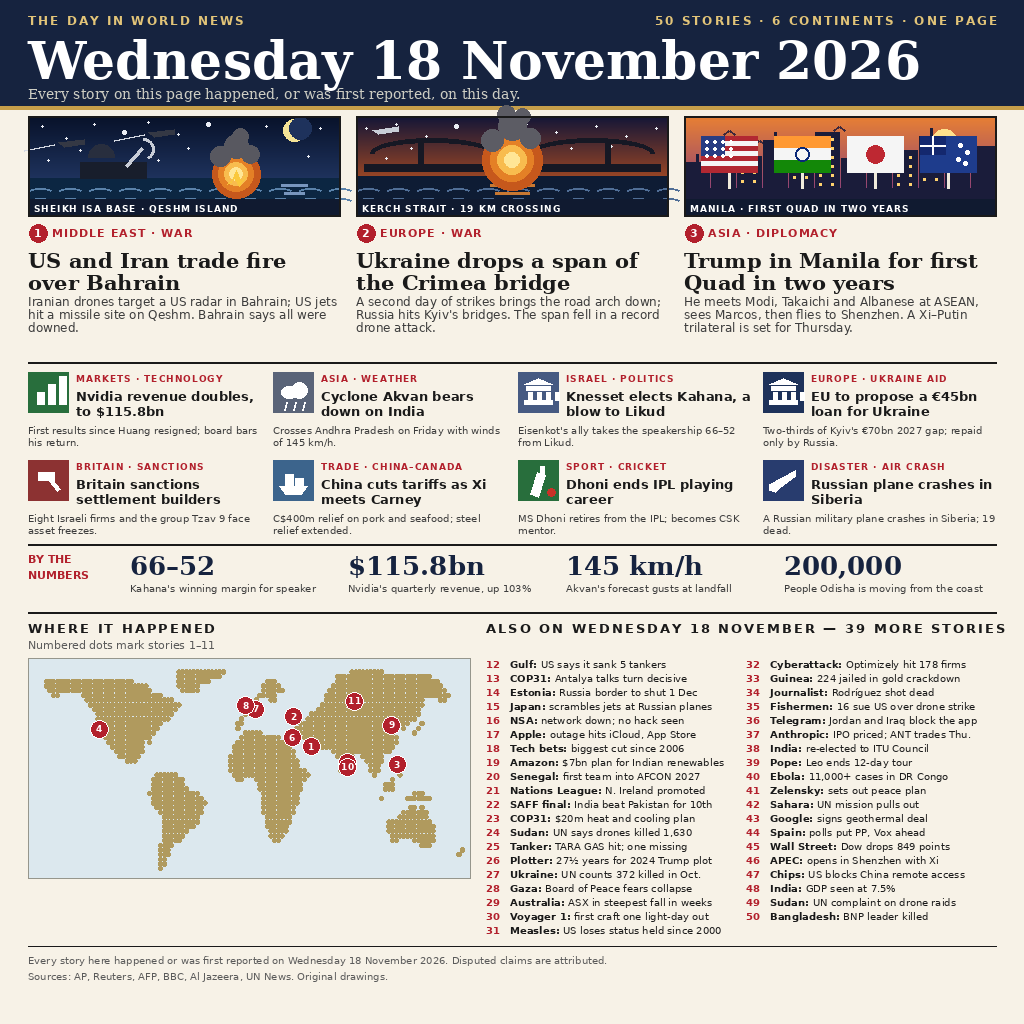
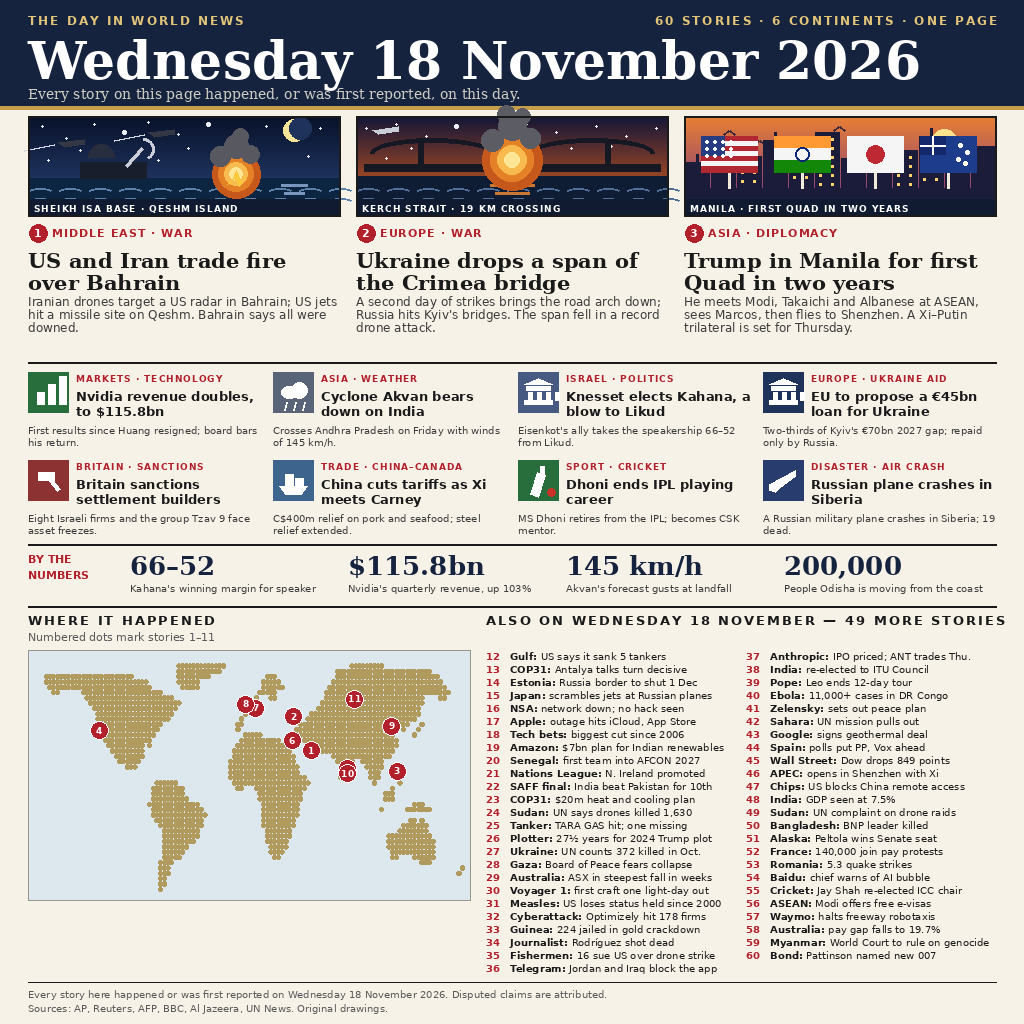
v5: 60 stories, densest page, no truncation

diff --git a/main.py b/main.py
@@ -1,11 +1,11 @@
 """Entry for news-image-20261118: place the bundled picture at the output.
 
-The bundled picture (entry.png, 1024 by 1024, 180,073 bytes) is a dense
-front page of Wednesday 18 November 2026: 50 stories — a dark navy
+The bundled picture (entry.png, 1024 by 1024, 197,053 bytes) is a dense
+front page of Wednesday 18 November 2026: 60 stories — a dark navy
 masthead, three rich night/dusk illustrated panels, eleven featured stories
 with visuals, a "BY THE NUMBERS" strip, a dotted world map with numbered
-pins, and a list of 39 more stories from the day. It is drawn
-programmatically (see ../news-image-20261117/draw_v4.py), so every
+pins, and a list of 49 more stories from the day. It is drawn
+programmatically (see ../news-image-20261117/draw_v5.py), so every
 headline is typeset and legible. This program only copies those exact
 bytes to the output path. It uses no network and no randomness, so every
 run produces the same file.

diff --git a/BUILD_NOTES.md b/BUILD_NOTES.md
@@ -4,6 +4,18 @@
 - **Bounty:** news-image-20261118 ($250, 50 places). Deadline 20 Nov 2026 00:00 UTC.
 - **Program:** `main.py` (Python 3.13, pure stdlib) — copies the bundled `entry.png` to `/output/entry.png`. No network, no drawing. Two runs write identical bytes.
 
+## Image (v5 — 60 stories, user asked "Coba v4 60 berita")
+- v3 ranked **106/3,727 (win rate 98.2873%)**; the prize cutoff (rank 50) is 98.6% — v4 (50 stories) is built and pushed but not yet submitted (daily quota; scheduled submit 19 Nov 07:05 WIB). The user asked to try 60 stories, so v5 extends v4's structure: **60 stories** (3 large + 8 tiles + 49 ALSO briefs). v4 stays as a backup.
+- `entry.png`: 1024×1024 PNG, 197,053 bytes (≤1 MiB). Drawn programmatically with PIL by `../news-image-20261117/draw_v5.py` (reuses draw_v2's land mask and icons; DejaVu fonts) — every headline is typeset, nothing is AI-generated, so no garbled text.
+- Layout surgery to fit 10 more one-liners in the same 1024×1024: ALSO pitch 14px → 13px (10pt line height is ~13px, lines still clear each other), two columns of 25/24; bottom section starts 8px higher (by 620 → 612, numbers rule 612 → 606); footer rule drops to 982; map grows 220 → 250px tall. Masthead kicker now "60 STORIES · 6 CONTINENTS · ONE PAGE". The width assertion still fails loudly on any item over 226px — zero violations.
+- 10 new briefs (items 51–60), all real stories from 18 Nov 2026, mined from the rank-2 front page (quiet-kestrel-73), the rank-50 front page (ethan-cole) and the day's wire roundups: Peltola flips Alaska's Senate seat, 140,000 join French pay protests, 5.3 quake in Romania, Baidu chief warns of an AI bubble, Jay Shah re-elected ICC chair, Modi offers ASEAN free e-visas, Waymo halts freeway robotaxis, Australia pay gap falls to 19.7%, World Court to rule on Myanmar genocide case, Pattinson named the new James Bond. Nothing invented.
+- All text viewed directly after generation (full page + 1:1 crop of the ALSO columns): all 60 items present and numbered 1–60, nothing truncated, 13px pitch lines do not collide, panels and map look good. Honest assessment: the 60-story page stays legible — the ALSO list is denser than v4 but each line is still crisp at full resolution. Whether it beats v4 depends on the judge: it has the most stories on the board (rank 1 has 35), but the denser list is a small legibility risk vs v4's airier 50.
+
+## Verification
[1 lines of base64/hex data omitted]
+- Output: 1024×1024, 197,053 bytes.
+- Local check (v5 files, v4 transcripts bundle): **13 passed, 0 failed, 5 skipped, 5 checked at submission** — thinking_reproduces 73.6% (56/76 lines authored; unwritten 25.3%, inside the 40% allowance). Parent re-bundles with the v5 session before submitting.
+
 ## Image (v4 — resubmit, rank push)
 - v3 ranked **114/3,574 (win rate 98.2873%)**; the prize cutoff (rank 50) is now 98.5483% (ethan-cole) — v4 must gain +0.26 points. The user first asked "why not 60 stories", then settled on **50 first** (60 risks unreadable text; if v4 still misses Top 50, the next round goes to 60). Rank 1 (calm-badger-15, 98.9981%, 35 stories) and the new rank 50 (ethan-cole, 98.5483%, 32 stories) were studied side by side with v3; the v3 builder's hypothesis was that panel scene art, not story count, separates 98.5% from 99.0%.
 - `entry.png`: 1024×1024 PNG, 180,073 bytes (≤1 MiB). Drawn programmatically with PIL by `../news-image-20261117/draw_v4.py` (reuses draw_v2's land mask and icons; DejaVu fonts) — every headline is typeset, nothing is AI-generated, so no garbled text.
